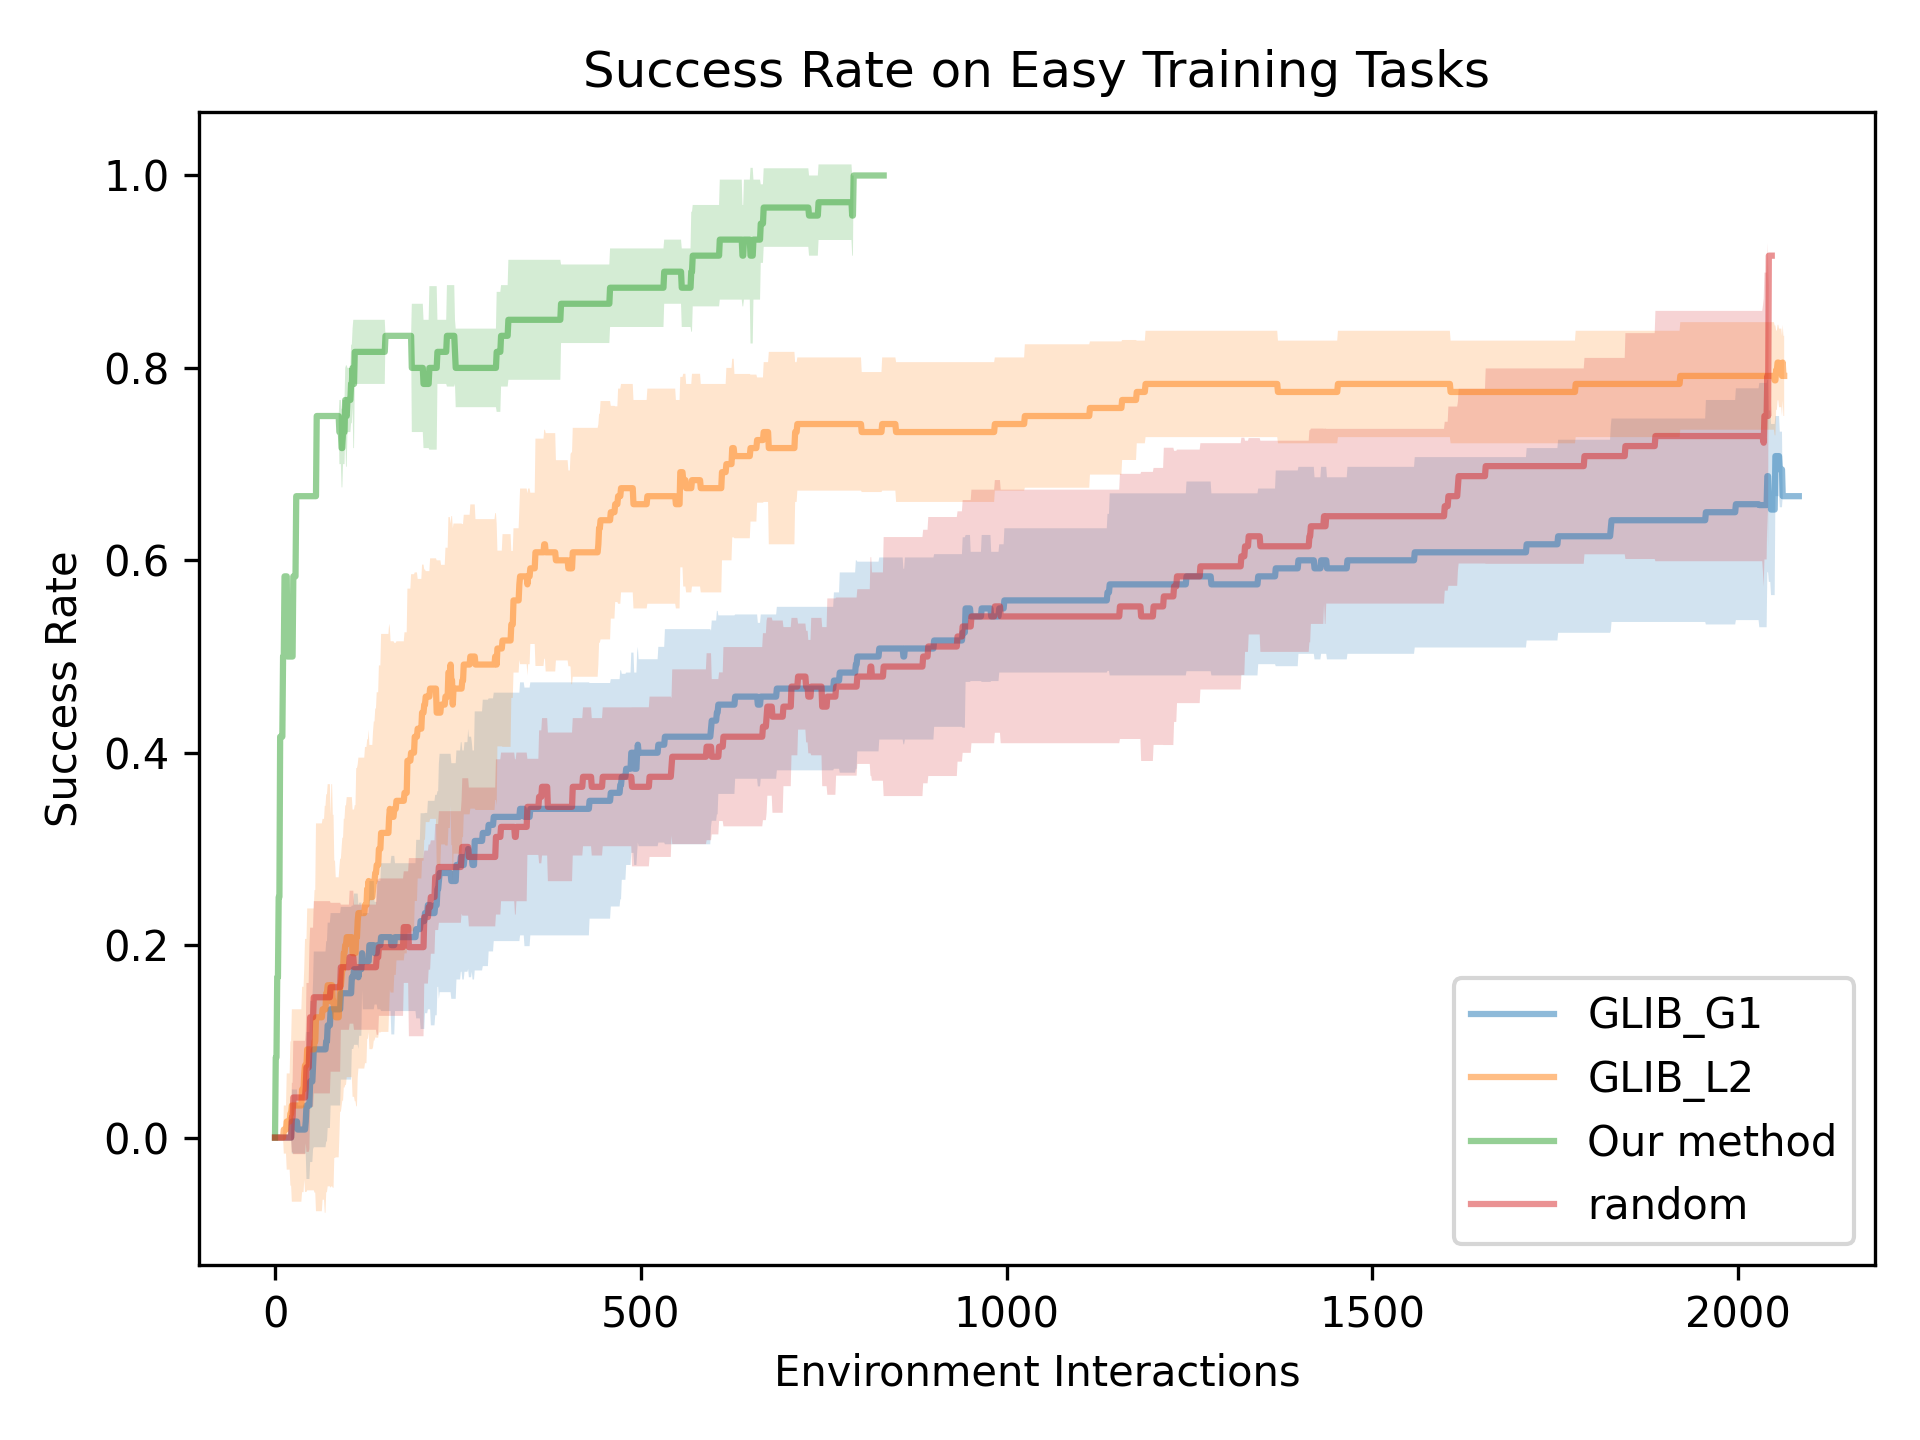
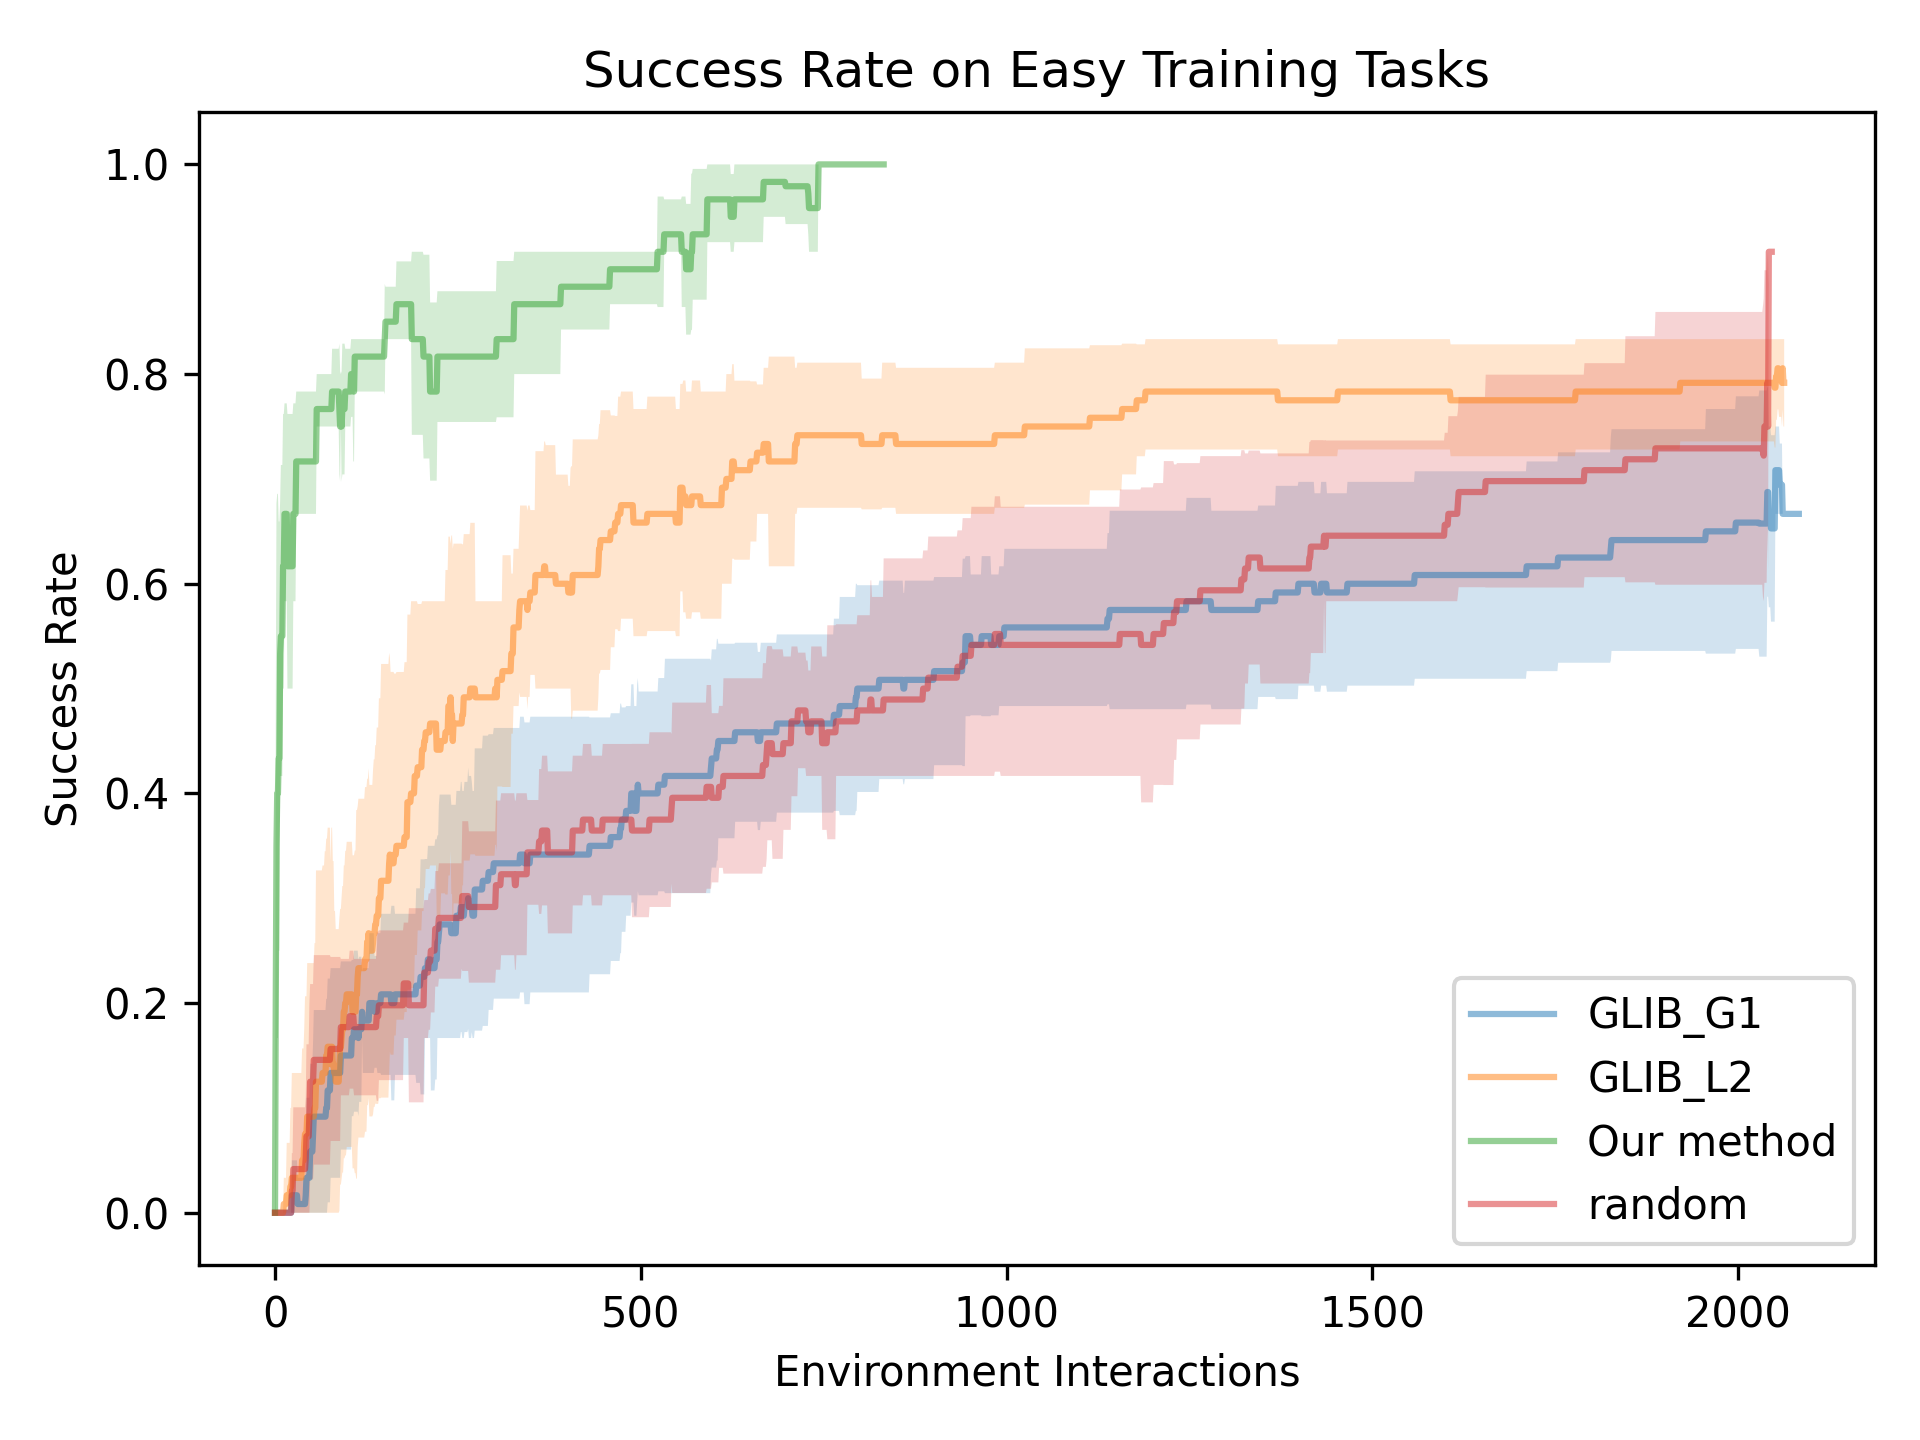
update

diff --git a/plotting.py b/plotting.py
@@ -201,9 +201,9 @@ EASY_TRAIN_TASKS = set(range(10, 22))
 ALL_TASKS = set(range(22))
 
 PLOTS = {
-    ("Success Rate on Test Tasks", 'results/Bakingrealistic/bakingrealistic_succ_generalized.png'): GENERALIZATION_TASKS,
+    # ("Success Rate on Test Tasks", 'results/Bakingrealistic/bakingrealistic_succ_generalized.png'): GENERALIZATION_TASKS,
     # ("Success Rate on Training Tasks", 'results/Bakingrealistic/bakingrealistic_succ_training.png'): TRAIN_TASKS,
-    # ("Success Rate on Easy Training Tasks", 'results/Bakingrealistic/bakingrealistic_succ_easy_training.png'): EASY_TRAIN_TASKS,
+    ("Success Rate on Easy Training Tasks", 'results/Bakingrealistic/bakingrealistic_succ_easy_training.png'): EASY_TRAIN_TASKS,
 
 
     # ("Success Rate on All Tasks (Train and Test)", 'results/Bakingrealistic/bakingrealistic_succ_demos.png'): ALL_TASKS,
@@ -287,6 +287,7 @@ def get_plots_for_bakinglarge(results_dict, results_filepaths_dict, append_demos
             for plot_name, _ in PLOTS:
                 # extend the line here.
                 if len(rates_result[plot_name]) < 2000:
+                    # print(len(rates_result[plot_name]), rates_result[plot_name][-1])
                     rates_result[plot_name] = rates_result[plot_name] + (rates_result[plot_name][-1] * np.ones((2000 - len(rates_result[plot_name]),))).tolist()
                 rates[plot_name].append(rates_result[plot_name])
 
